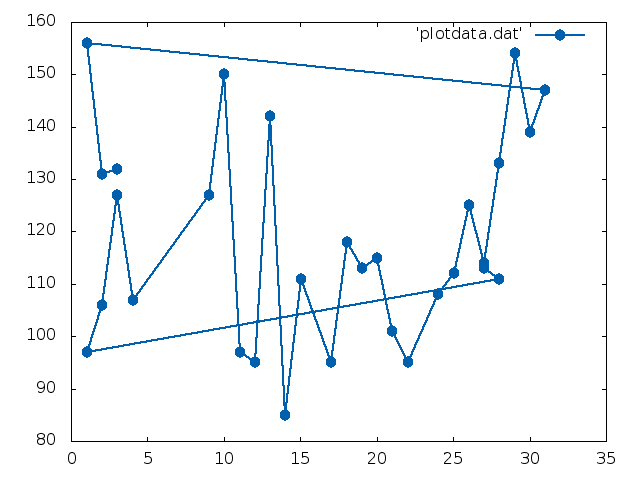
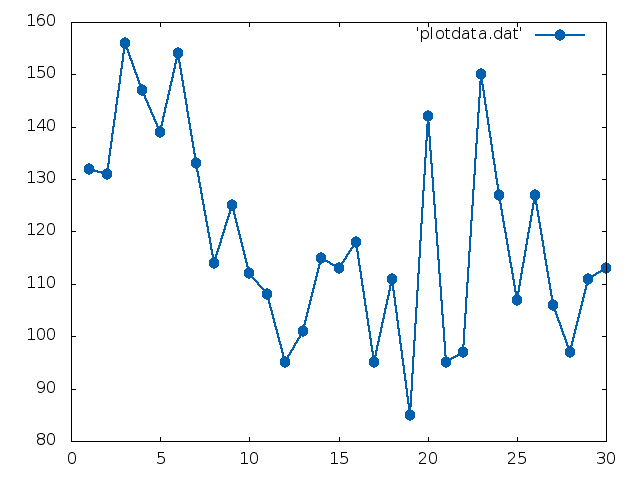
Altered data file formatting; Still experimenting with plot output

diff --git a/mytest.c b/mytest.c
@@ -301,7 +301,7 @@ void createPlotFile(){
 	FILE *fp = fopen("plotdata.dat", "w");
 	int i=0;
 	for (i; i<NUMDAYS; i++){
-		fputs(dates[i], fp);
+		fprintf(fp, "%d", i+1);
 		fputs("\t", fp);
 		fputs(data[i], fp);
 		fputs("\n", fp);
